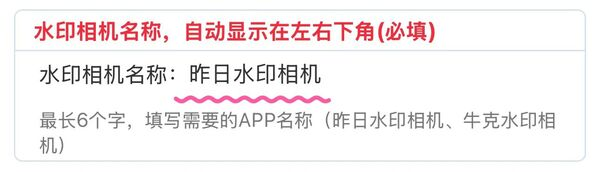
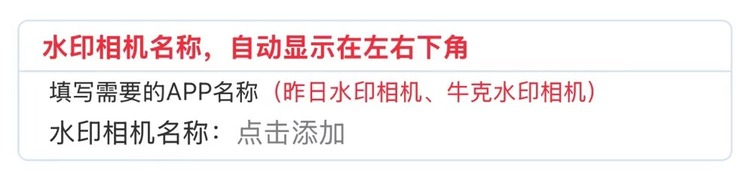
Squashed commit of the following:
commit 82c21f5892323e4661a38144f649467c04178932
Author: 刘语 <liuyu@liuyudeMacBook-Pro.local>
Date:   Mon Oct 14 12:25:35 2024 +0800

    1

commit cb0fa1e840ae2926738410f1a2d32a62d2916be9
Author: 刘语 <liuyu@liuyudeMacBook-Pro.local>
Date:   Sun Oct 13 21:06:00 2024 +0800

    Squashed commit of the following:

    commit 2c9e5351f457813d5faa5fb258fb6fa992729258
    Author: 刘语 <liuyu@liuyudeMacBook-Pro.local>
    Date:   Sun Oct 13 20:53:56 2024 +0800

        1

commit 354178d907a9af45a22bf87dc71d0e170e6a0620
Author: 刘语 <liuyu@liuyudeMacBook-Pro.local>
Date:   Sun Oct 13 20:15:08 2024 +0800

    1

commit 1ca632ab2021f409fd03a627740aced27b38f051
Author: 刘语 <liuyu@liuyudeMacBook-Pro.local>
Date:   Sun Oct 13 16:56:47 2024 +0800

    1

diff --git a/client/src/pages/index/index.jsx b/client/src/pages/index/index.jsx
@@ -530,9 +530,9 @@ const CameraPage = () => {
         Taro.showToast({
           title: "点击水印可编辑时间地点",
           icon: "none",
-          duration: 5000,
+          duration: 4000,
         });
-      }, 1000);
+      }, 500);
     }
   }, [allAuth]);
 
@@ -778,9 +778,16 @@ const CameraPage = () => {
     });
   }, []);
   useEffect(() => {
-    setTimeout(() => {
-      setUpdate(true);
-    }, 4000);
+    let count = 0;
+    const interval = setInterval(() => {
+      setUpdate((prev) => !prev); // 这里是为了每次赋不同的值
+      count++;
+      if (count === 4) {
+        clearInterval(interval); // 执行两次后清除定时器
+      }
+    }, 2000);
+
+    return () => clearInterval(interval); // 清除副作用
   }, []);
   const selectImg = () => {
     if (!allAuth) {
@@ -1647,7 +1654,7 @@ const CameraPage = () => {
               使用教程
             </Button>
           </View>
-          <AtModal isOpened={shuiyinNameModal} closeOnClickOverlay={true}>
+          <AtModal isOpened={shuiyinNameModal} closeOnClickOverlay={false}>
             <AtModalHeader>
               <Text>提示</Text>
               <View
@@ -1682,7 +1689,7 @@ const CameraPage = () => {
                       style={{
                         marginTop: "10px",
                         width: "280px",
-                        height: "80px",
+                        height: "68px",
                       }}
                     ></Image>
                   </View>
@@ -1808,62 +1815,64 @@ const CameraPage = () => {
               </Button>
             </AtModalAction>
           </AtModal>
-
           {/* 会员填写手机号 防失联 */}
-          <AtModal isOpened={addPhoneNumber} closeOnClickOverlay={false}>
-            <AtModalHeader>
-              <Text style={{ color: "#ffaa00" }}>提示</Text>
-            </AtModalHeader>
-            <AtModalContent>
-              <View className="modal-list">
-                <View className="txt1">
-                  尊敬的会员，为防止失联，请填一定填写正确手机号，如有变动第一时间通知您！如果填写错误请联系客服修改。
-                </View>
-                <View>
-                  <AtInput
-                    title="手机号"
-                    type="number"
-                    maxLength={11}
-                    value={phone}
-                    onChange={(e) => {
-                      setPhone(e);
-                    }}
-                  />
-                </View>
-              </View>
-            </AtModalContent>
-            <AtModalAction>
-              <Button
-                style={{ flex: 1 }}
-                onClick={async () => {
-                  const validatePhone = (phoneNumber) => {
-                    // 中国大陆手机号的正则
-                    const phoneRegex = /^1[3-9]\d{9}$/;
-                    return phoneRegex.test(phoneNumber);
-                  };
-                  if (!validatePhone(phone)) {
-                    Taro.showToast({
-                      title: "手机号格式不正确",
-                      icon: "none",
-                      duration: 2000,
-                    });
-                    return;
-                  }
-                  setAddPhoneNumber(false);
 
-                  await Taro.cloud.callFunction({
-                    name: "addUser",
-                    data: {
-                      phone,
-                    },
-                  });
-                  Taro.setStorage({ key: "phoneInputed", data: true });
-                }}
-              >
-                提交
-              </Button>
-            </AtModalAction>
-          </AtModal>
+          {addPhoneNumber && (
+            <AtModal isOpened={addPhoneNumber} closeOnClickOverlay={false}>
+              <AtModalHeader>
+                <Text style={{ color: "#ffaa00" }}>提示</Text>
+              </AtModalHeader>
+              <AtModalContent>
+                <View className="modal-list">
+                  <View className="txt1">
+                    尊敬的会员，为防止失联，请填一定填写正确手机号，如有变动第一时间通知您！如果填写错误请联系客服修改。
+                  </View>
+                  <View>
+                    <AtInput
+                      title="手机号"
+                      type="number"
+                      maxLength={11}
+                      value={phone}
+                      onChange={(e) => {
+                        setPhone(e);
+                      }}
+                    />
+                  </View>
+                </View>
+              </AtModalContent>
+              <AtModalAction>
+                <Button
+                  style={{ flex: 1 }}
+                  onClick={async () => {
+                    const validatePhone = (phoneNumber) => {
+                      // 中国大陆手机号的正则
+                      const phoneRegex = /^1[3-9]\d{9}$/;
+                      return phoneRegex.test(phoneNumber);
+                    };
+                    if (!validatePhone(phone)) {
+                      Taro.showToast({
+                        title: "手机号格式不正确",
+                        icon: "none",
+                        duration: 2000,
+                      });
+                      return;
+                    }
+                    setAddPhoneNumber(false);
+
+                    await Taro.cloud.callFunction({
+                      name: "addUser",
+                      data: {
+                        phone,
+                      },
+                    });
+                    Taro.setStorage({ key: "phoneInputed", data: true });
+                  }}
+                >
+                  提交
+                </Button>
+              </AtModalAction>
+            </AtModal>
+          )}
           {/*  -----------------------  */}
           {/*  -----------------------  */}
           {/*  -----------------------  */}
@@ -1920,38 +1929,30 @@ const CameraPage = () => {
               <View className="shuiyin-list">
                 {canvasConfigState.map((item, index) => {
                   return (
-                    <React.Fragment key={index}>
-                      {/* 会员免广告 */}
-                      <View
-                        className="shuiyin-item"
-                        onClick={() => {
-                          setCurrentShuiyinIndex(index);
-                        }}
-                      >
-                        <View className="shuiyin-item-img">
-                          {item[0].vip && (
-                            <Image
-                              mode="aspectFit"
-                              className="vip-arrow"
-                              src={VipArrow}
-                            ></Image>
-                          )}
+                    <View key={index}>
+                      <View className="shuiyin-item">
+                        <View
+                          className="shuiyin-item-img"
+                          onTouchStart={(e) => {
+                            setCurrentShuiyinIndex(index);
+                          }}
+                        >
                           <Image mode="aspectFit" src={item[0].img}></Image>
                         </View>
                         {currentShuiyinIndex === index && (
-                          <View className="shuiyin-item-cover">
-                            <Button
-                              onClick={() => {
-                                setEdit(true);
-                                updateShuiyinIndex(index);
-                              }}
-                            >
-                              编辑
-                            </Button>
+                          <View
+                            className="shuiyin-item-cover"
+                            onTouchStart={(e) => {
+                              console.log(111, e);
+                              setEdit(true);
+                              updateShuiyinIndex(index);
+                            }}
+                          >
+                            <Button>编辑</Button>
                           </View>
                         )}
                       </View>
-                    </React.Fragment>
+                    </View>
                   );
                 })}
               </View>
@@ -1999,7 +2000,21 @@ const CameraPage = () => {
                   </AtCard>
                   {
                     <View className="syxjName-box">
-                      <AtCard title="水印相机名称，自动显示在左右下角(必填)">
+                      <AtCard title="水印相机名称，自动显示在左右下角">
+                        <View
+                          style={{
+                            fontSize: "14px",
+                          }}
+                        >
+                          填写需要的APP名称
+                          <Text
+                            style={{
+                              color: "#f22c3d",
+                            }}
+                          >
+                            （昨日水印相机、牛克水印相机）{" "}
+                          </Text>
+                        </View>
                         <View className="picker">
                           <Text>水印相机名称： </Text>
                           <Input
@@ -2017,15 +2032,6 @@ const CameraPage = () => {
                               );
                             }}
                           ></Input>
-                        </View>
-                        <View
-                          style={{
-                            marginTop: "10px",
-                            color: "#7b7878",
-                            fontSize: "14px",
-                          }}
-                        >
-                          最长6个字，填写需要的APP名称（昨日水印相机、牛克水印相机）
                         </View>
                       </AtCard>
                     </View>

diff --git a/client/src/pages/index/generateConfig.js b/client/src/pages/index/generateConfig.js
@@ -139,7 +139,8 @@ const generateCanvasConfig = ({
                       ctx.font = "bold 10px sans-serif";
                       ctx.fillStyle = "#c9cbcd";
                       ctx.fillText(
-                        shuiyinxiangjiName + `相机已验证照片真实性`,
+                        shuiyinxiangjiName +
+                        (shuiyinxiangjiName.includes('相机') ? '已验证照片真实性' : '相机已验证照片真实性'),
                         26,
                         canvas.height / dpr - 2
                       );
@@ -388,7 +389,8 @@ const generateCanvasConfig = ({
                 ctx.font = "bold 10px sans-serif";
                 ctx.fillStyle = "#c9cbcd";
                 ctx.fillText(
-                  shuiyinxiangjiName + `相机已验证 | 时间地点真实`,
+                  shuiyinxiangjiName +
+                  (shuiyinxiangjiName.includes('相机') ? '已验证 | 时间地点真实' : '相机已验证 | 时间地点真实'),
                   26,
                   canvas.height / dpr - 2
                 );

diff --git a/client/src/pages/index/index.scss b/client/src/pages/index/index.scss
@@ -33,7 +33,8 @@ page {
   transform: translate(-50%, -50%);
   font-size: 42px;
   color: rgba(255, 255, 255, 0.7);
-  text-shadow: 1px 1px 2px rgba(0, 0, 0, 0.4), 0 0 1px rgba(0, 0, 0, 0.4), 0 0 1px rgba(0, 0, 0, 0.4);
+  text-shadow: 1px 1px 2px rgba(0, 0, 0, 0.4), 0 0 1px rgba(0, 0, 0, 0.4),
+    0 0 1px rgba(0, 0, 0, 0.4);
   animation: fadeOut 1s ease-in-out 5s forwards;
 }
 
@@ -315,7 +316,7 @@ page {
 .vip {
   margin-left: 30%;
 }
-.shuiyin-list-no-grid{
+.shuiyin-list-no-grid {
   display: block !important;
 }
 .imgVideoShuiyin {
@@ -366,6 +367,7 @@ page {
     top: 0;
     width: 100%;
     height: 100%;
+    z-index: 999999;
     background-color: rgba(0, 0, 0, 0.4);
     display: flex;
     justify-content: center;
@@ -382,6 +384,7 @@ page {
   }
   image {
     width: 90%;
+    height: 100%;
   }
   .vip-arrow {
     width: 90px;
@@ -742,5 +745,4 @@ picker,
       }
     }
   }
-
 }

diff --git a/client/src/pages/index/dz.js b/client/src/pages/index/dz.js
@@ -346,7 +346,8 @@ const generateCanvasConfig = ({
                       ctx.font = "bold 10px sans-serif";
                       ctx.fillStyle = "#c9cbcd";
                       ctx.fillText(
-                        shuiyinxiangjiName + `相机已验证 | 时间地点真实`,
+                        shuiyinxiangjiName +
+                        (shuiyinxiangjiName.includes('相机') ? '已验证 | 时间地点真实' : '相机已验证 | 时间地点真实'),
                         26,
                         canvas.height / dpr - 2
                       );

diff --git a/readme.md b/readme.md
@@ -1,1 +1,13 @@
 微信小程序-可修改时间水印相机
+
+可修改水印相机
+sy-4gecj2zw90583b8b
+wx785efc584be4265b
+
+可修改定位水印相机
+sy-4gecj2zw90583b8b
+wxb5e2af22e727269d
+
+字定义水印相机
+ly-9gjnymq6d9d7ca23
+wx8d21222bcb51c801
